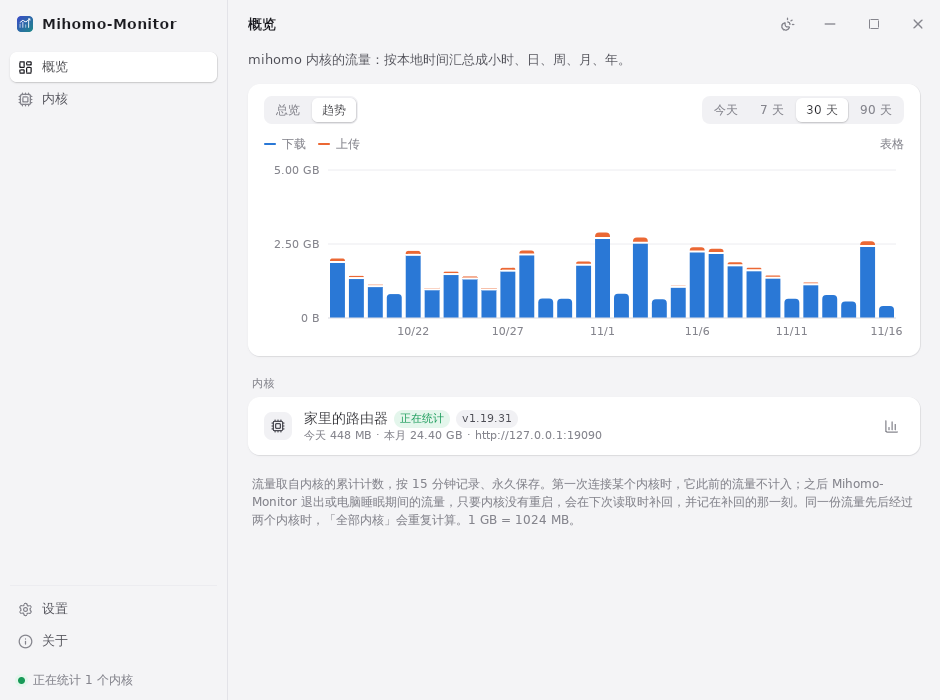
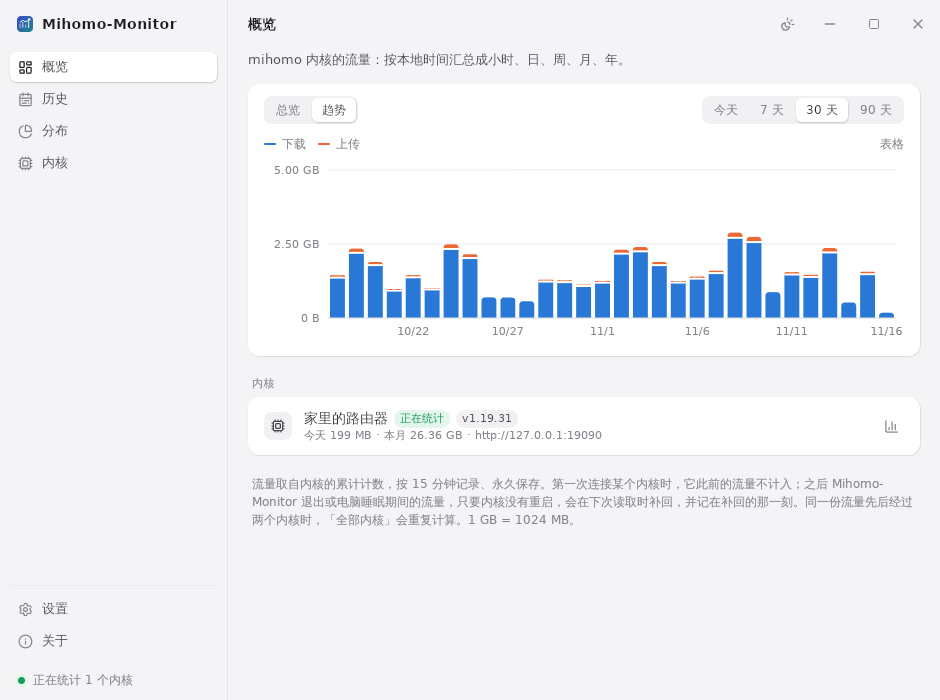
README 与设计文档补充历史页、分布页与拆分口径，更新截图
- 说明各维度的来源、“未归类”的含义、域名的保留方式
- 后台读取方式改为 /traffic 用于实时速率、/connections 用于记账
- 已知限制补充 Verge 订阅的记账方式与多设备共用订阅的差异

diff --git a/app/src/pages/SourcesPage.tsx b/app/src/pages/SourcesPage.tsx
@@ -137,7 +137,7 @@ export function SourcesPage({ sources }: { sources: Source[] | null }) {
         </Group>
 
         <p className="px-1 text-[11.5px] leading-[18px] text-muted">
-          总量取自内核的累计计数（upTotal / downTotal），Mihomo-Monitor 退出或电脑睡眠期间的流量，只要内核没有重启，下次读取时会补回。内核和 Mihomo-Monitor
+          总量取自内核自身的累计计数，Mihomo-Monitor 退出或电脑睡眠期间的流量，只要内核没有重启，下次读取时会补回。内核和 Mihomo-Monitor
           同时停止期间的流量无法找回。
         </p>
       </div>

diff --git a/README.md b/README.md
@@ -25,6 +25,8 @@
 - [功能概览](#功能概览)
 - [快速开始](#快速开始)
 - [内核发现](#内核发现)
+- [历史](#历史)
+- [分布](#分布)
 - [统计口径](#统计口径)
 - [后台常驻](#后台常驻)
 - [数据存储](#数据存储)
@@ -39,8 +41,10 @@
 | --- | --- |
 | 直接读取已有内核 | 自动找到 Clash Verge Rev 等客户端正在运行的 mihomo 内核，通过它的控制接口读取流量计数；不内置内核，不接管、不改动你的代理 |
 | vnstat 式记账 | 按 15 分钟记录、永久保存，按本地时间汇总成小时、日、周、月、年 |
-| 不漏记 | 以内核的累计计数（`upTotal` / `downTotal`）为准；Mihomo-Monitor 退出或电脑睡眠期间，只要内核没有重启，流量会在下次读取时补回 |
+| 不漏记 | 以内核自身的累计计数（`/connections` 的 `uploadTotal` / `downloadTotal`）为准；Mihomo-Monitor 退出或电脑睡眠期间，只要内核没有重启，流量会在下次读取时补回 |
 | 实时速率与热力图 | 最近 5 分钟的下载与上传速率曲线，一年每天流量的热力图 |
+| 历史 | 按小时、日、周、月、年翻看任意时段，用量最高的日子排行，自定义起止日期，导出 CSV（对应 vnstat 的 -h / -d / -w / -m / -y / -t） |
+| 分布 | 流量去了哪里：按实际出站节点、订阅、进程、入站和域名排行，展开进程可看它访问的域名 |
 | 多个内核 | 本机与路由器（OpenClash 等）的内核可以同时统计，分别查看或合计 |
 | 常驻托盘 | 开机自启，托盘悬停显示今日用量；轻量模式下关闭窗口会连界面一起释放 |
 
@@ -75,6 +79,39 @@ unix socket 与 Windows 命名管道不需要 secret（mihomo 不在这两个通
 
 已实测：macOS 上的 Clash Verge Rev 2.5.6（服务模式，mihomo v1.19.31）。其他客户端（Mihomo Party、FlClash、ClashX Meta）与 Windows 上的 Clash Verge Rev 尚未逐一实测，欢迎反馈。
 
+## 历史
+
+<div align="center">
+<img src="docs/images/history.png" alt="历史页" width="720">
+</div>
+
+| 视图 | 一页显示 | 对应 vnstat |
+| --- | --- | --- |
+| 小时 | 一天的每个小时 | `-h` |
+| 日 | 一个月的每一天 | `-d` |
+| 周 / 月 | 一年的每周、每月 | `-w` / `-m` |
+| 年 | 全部年份 | `-y` |
+| 排行 | 用量最高的 20 天 | `-t` |
+| 自定义 | 任意起止日期，按天列出 | — |
+
+每个视图有合计、柱状图和明细表（下载、上传、合计、占比、平均速率），可以前后翻页，也可以导出 CSV（带 BOM，Excel 直接打开不乱码）。平均速率按这段时间已经过去的部分计算。
+
+## 分布
+
+<div align="center">
+<img src="docs/images/breakdown.png" alt="分布页" width="720">
+</div>
+
+| 维度 | 来源 |
+| --- | --- |
+| 节点 | 连接链路的第一跳（`chains[0]`），即实际出站的节点；直连显示为 DIRECT |
+| 订阅 | 节点来自 proxy-provider 时取 provider 名；Clash Verge Rev 会把订阅展开成普通节点，所以取它当时启用的配置名（`profiles.yaml` 的 `current`）；直连不属于任何订阅 |
+| 进程 | 发起连接的程序。需要内核能查到进程：TUN 模式下通常默认可以，否则在配置中设置 `find-process-mode: always` |
+| 入站 | 流量从内核的哪个入口进来，例如混合端口、TUN，或给容器、局域网设备单独开的端口 |
+| 域名 | 连接的域名，没有域名时是 IP；可以按主域名合并（`a.cdn.example.co.uk` 计入 `example.co.uk`） |
+
+时间范围可选今天、昨天、本周、本月、近 30 天、今年。
+
 ## 统计口径
 
 - **总量取自内核的累计计数。** 每次读数与上一次相减得到增量；计数变小说明内核重启过，此时当前计数全部是新流量。
@@ -82,13 +119,15 @@ unix socket 与 Windows 命名管道不需要 secret（mihomo 不在这两个通
 - **补回的流量记在补回的时刻。** 中间这段时间里每一刻用了多少已经无从得知，所以按小时看时它会集中在恢复读取的那一格。
 - **时区。** 数据按 UTC 存成 15 分钟一格。所有时区与 UTC 都相差整数个 15 分钟，所以换时区后按天汇总依旧准确；夏令时当天按 23 或 25 小时计算。
 - **单位。** 1 GB = 1024 MB，与多数代理客户端和机场的计法一致。
+- **按连接拆分。** 每 2 秒读取一次 `/connections`：总量与各连接的计数取自同一时刻，每条连接的增长记到它的节点、订阅、进程、入站和域名上。连接在两次读取之间就关闭时，最后一段看不到去向，记为「未归类」；节点维度加起来始终等于总量，其他维度不足的部分也显示为「未归类」（进程维度显示为「未知进程」）。开始按连接统计之前的历史都是「未归类」。
+- **域名的保留。** 今天的域名明细完整；过去的每一天只保留用量最高的 200 个（进程 × 域名），每个进程至少保留它自己的前 10 个，其余并入该进程的「其他」，进程的总量不受影响。
 - **多个内核合计。** 同一份流量如果先后经过两个内核（例如本机内核的出站又经过路由器的内核），合计时会重复计算，概览页会提示。
 
 ## 后台常驻
 
 - 主窗口在需要时才创建。**轻量模式**（默认开启）下关闭窗口会销毁界面，只留下 Rust 后台进程继续统计；关闭轻量模式时关窗只是隐藏，再打开更快。
 - macOS 上没有窗口时，应用不出现在程序坞与切换器里。
-- 后台只订阅 `/traffic`（每秒一行），增量在内存中累加，每分钟写一次盘；界面关闭时不向前端推送任何数据。
+- 后台对每个内核保持一条 `/traffic` 连接（每秒一行，用于实时速率），并每 2 秒读取一次 `/connections`（用于记账与拆分）。增量在内存中累加，每分钟写一次盘；界面关闭时不向前端推送任何数据。
 - 开机自启以 `--tray` 参数启动，不弹出窗口。
 
 ## 数据存储
@@ -141,7 +180,8 @@ app/scripts/readme-screenshots.sh
 - [x] 托盘常驻、轻量模式、开机自启、自动更新
 - [x] 内核发现（启动参数、配置文件、Clash Verge Rev 已知位置、手动添加）
 - [x] 总量统计：日 / 周 / 月 / 年、实时速率、断点续算
-- [ ] 按节点、订阅、DIRECT、进程、入站、域名拆分（读取 `/connections`）
+- [x] 历史浏览：小时 / 日 / 周 / 月 / 年、排行、自定义时段、导出 CSV
+- [x] 按节点、订阅、DIRECT、进程、入站、域名拆分
 - [ ] 按订阅设置计费周期与配额，对照机场返回的已用量
 - [ ] 更多客户端的实测与适配
 
@@ -149,7 +189,9 @@ app/scripts/readme-screenshots.sh
 
 - 第一次连接某个内核时，它此前的累计流量不计入。
 - 远程内核（手动添加的地址）看不到进程，只能靠计数是否变小来判断重启：如果它在 Mihomo-Monitor 停止期间重启，并且新的计数已经超过上次记录的值，这段时间会少记。
-- 原版 Clash 与 Clash Premium 不支持；mihomo 也需要是 `/traffic` 带 `upTotal` / `downTotal` 累计计数的版本，较旧的版本会在 **内核** 页提示升级。
+- 原版 Clash 与 Clash Premium 不支持，只支持 mihomo（Clash.Meta）内核。
+- Clash Verge Rev 的订阅按当时启用的配置记账：全局 Merge / Script 增强从别处加入的节点，也会记到当前配置名下。
+- 一个订阅同时在多台设备上使用时，这里只统计本机（或所添加内核）经过的流量，与机场显示的已用量不同。
 
 ## License
 

diff --git a/docs/design.md b/docs/design.md
@@ -98,10 +98,11 @@
   - 进程：`metadata.process`。只有内核开启了进程查找（TUN 模式下通常默认开启，或 `find-process-mode: always`）才有值，否则记为“未知进程”，界面提示如何开启。
   - 入站：`metadata.inboundName`，如用户为容器单独开的监听端口（参考工具里的 `US-Workstation-Port`）。进程为空的连接（容器、局域网设备经 OrbStack / allow-lan 转发）靠它区分来源，取值很少，成本可忽略。
   - 域名：`metadata.host`，为空时用 `destinationIP`。按精确主机名入库，不在入库前合并子域名；界面提供“按主域名合并”开关（eTLD+1，`psl` crate），只对保留下来的数据合并。
-- **省资源的读法**：
-  - 后台只开一条 `/connections` WebSocket（默认 2 秒间隔），它同时给出总量与拆分；只用 serde 反序列化需要的字段。
-  - `/traffic` 的秒级速率只在窗口打开、或 macOS 菜单栏开了实时速率时订阅。
+- **读法（已实现）**：
+  - 每 2 秒用普通 HTTP 读一次 `/connections` 快照（reqwest 不支持 WebSocket；mihomo 对非 WebSocket 请求返回一次快照）。快照里的 `uploadTotal` / `downloadTotal` 与连接列表是同一时刻的，记账与拆分都用它，只用 serde 反序列化需要的字段。
+  - `/traffic` 每个内核常开一条（每秒一行，开销可忽略），只用于实时速率曲线，不参与记账。
   - 增量先在内存累加，每 60 秒（以及退出时）合并写入一次 SQLite。
+  - 存储：节点维度保存“未归类”行，各节点相加等于总量；订阅、进程、入站只存已知的键，查询时用总量减去已知部分得到“未归类”。
 
 ## 5. 存储
 
@@ -180,10 +181,10 @@ app/
 
 每一步都能端到端使用：
 
-1. **骨架**：托盘常驻、懒创建窗口、单实例、开机自启、SQLite 初始化。
-2. **总量采集**：Clash Verge Rev 适配器 + 手动添加；`/traffic` 累计、检查点、15 分钟桶；托盘显示今日用量。
-3. **vnstat 视图**：日 / 周 / 月 / 年 / 小时、实时曲线、热力图。
-4. **按维度拆分**：`/connections` 采集；节点 / 订阅 / DIRECT / 进程排行；域名按天前 N 名；“未归类”。
+1. ✅ **骨架**：托盘常驻、懒创建窗口、单实例、开机自启、SQLite 初始化。
+2. ✅ **总量采集**：Clash Verge Rev 适配器 + 手动添加；累计计数、检查点、15 分钟桶；托盘显示今日用量。
+3. ✅ **vnstat 视图**：概览（日 / 周 / 月 / 年、实时曲线、热力图）与历史页（小时 / 日 / 周 / 月 / 年翻页、排行、自定义时段、导出 CSV）。
+4. ✅ **按维度拆分**：`/connections` 采集；节点 / 订阅 / DIRECT / 进程 / 入站 / 域名排行（分布页）；域名按天前 200 名；“未归类”。
 5. **计费周期**：每订阅一个周期、配额提醒、机场 `subscriptionInfo` 对照。
 6. **更多客户端与发布**：其余客户端适配器、CI、自动更新、README。
 
